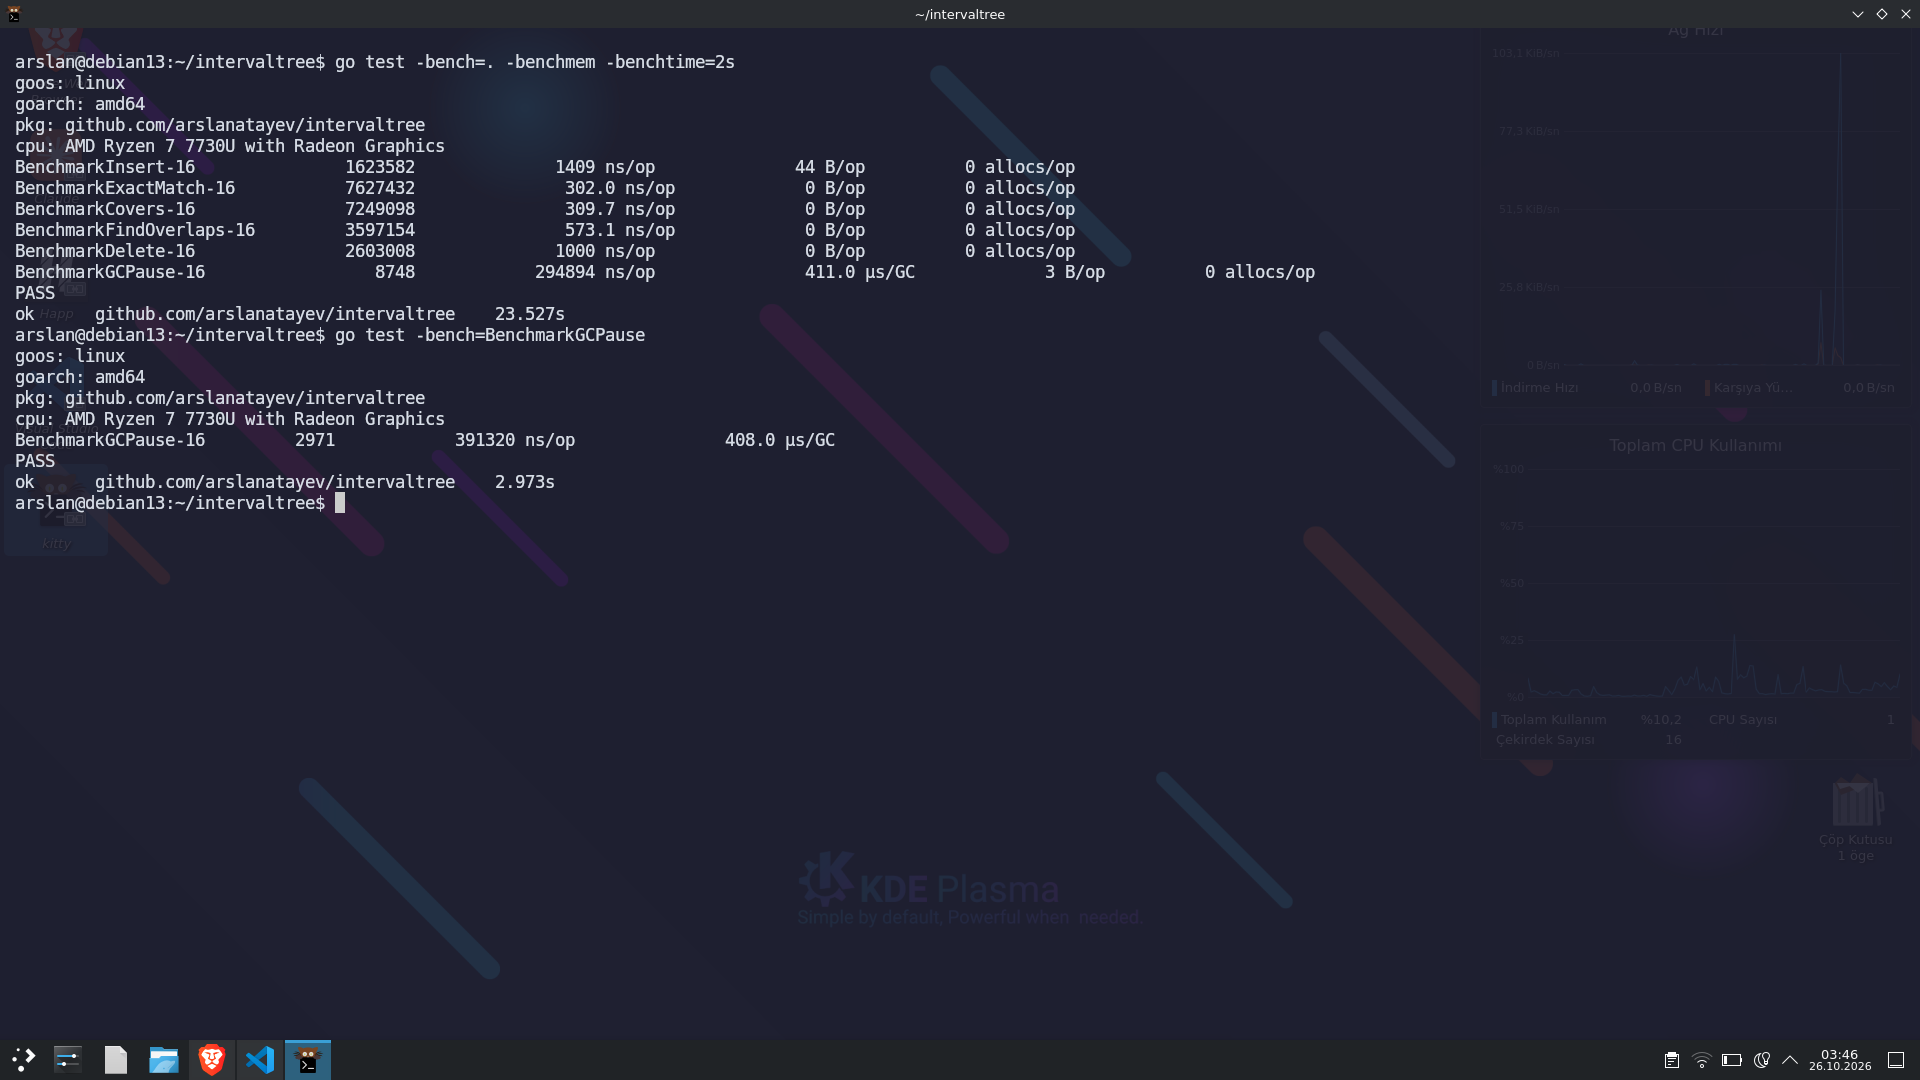
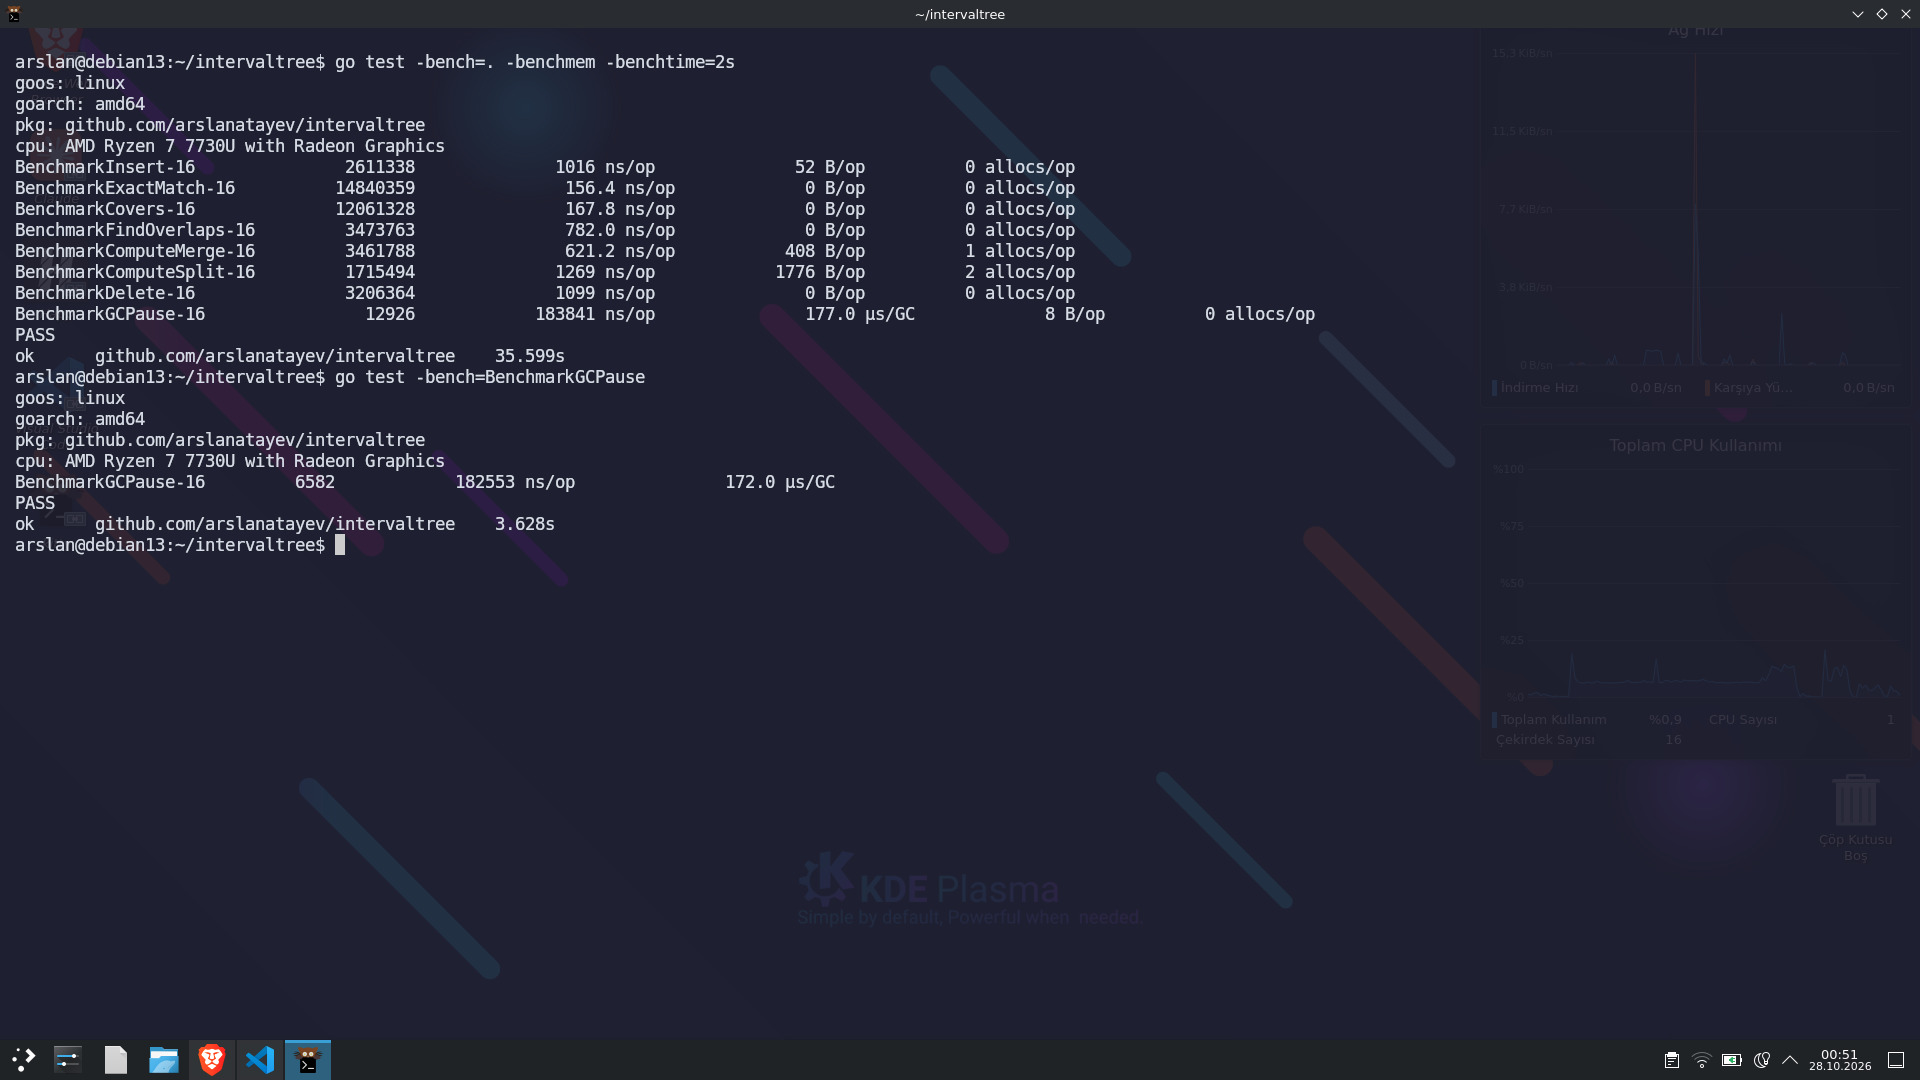
refactor(intervaltree): optimize compute memory usage and update docs
- Add benchmark and fuzz tests for ComputeMerge and ComputeSplit.
- Introduce defaultCapacity to prevent massive heap over-allocation (reducing B/op drastically).
- Use math.MinInt (minInt) for platform-independent 32-bit/64-bit safety.
- Update README with the new benchmark results table including Compute functions.

diff --git a/fuzz_test.go b/fuzz_test.go
@@ -70,6 +70,43 @@ func (m *referenceModel) all() [][2]int {
 	return res
 }
 
+func (m *referenceModel) computeMerge(start, end int) (toDelete [][2]int, merged [2]int, isIntersect bool) {
+	newStart := start
+	newEnd := end
+	pStart := start - 1
+	pEnd := end + 1
+	for _, it := range m.intervals {
+		if it[0] <= pEnd && pStart <= it[1] {
+			toDelete = append(toDelete, it)
+			if it[0] < newStart {
+				newStart = it[0]
+			}
+			if it[1] > newEnd {
+				newEnd = it[1]
+			}
+		}
+	}
+	merged = [2]int{newStart, newEnd}
+	isIntersect = len(toDelete) > 0
+	return toDelete, merged, isIntersect
+}
+
+func (m *referenceModel) computeSplit(start, end int) (toDelete, toAdd [][2]int, isIntersect bool) {
+	for _, it := range m.intervals {
+		if it[0] <= end && start <= it[1] {
+			toDelete = append(toDelete, it)
+			if it[0] < start {
+				toAdd = append(toAdd, [2]int{it[0], start - 1})
+			}
+			if it[1] > end {
+				toAdd = append(toAdd, [2]int{end + 1, it[1]})
+			}
+		}
+	}
+	isIntersect = len(toDelete) > 0
+	return toDelete, toAdd, isIntersect
+}
+
 // FuzzIntervalTree tests memory integrity and algorithmic correctness of the library.
 func FuzzIntervalTree(f *testing.F) {
 	cmp := func(a, b int) int {
@@ -189,6 +226,34 @@ func FuzzIntervalTree(f *testing.F) {
 						t.Fatalf("Slice() sorting/content mismatch at %d: Tree=[%d,%d], Reference=%v", i, overlaps[i].Start, overlaps[i].End, refAll[i])
 					}
 				}
+
+			case 6: // COMPUTE MERGE
+				treeDel, treeMerged, treeIntersect := tree.ComputeMerge(s, e)
+				refDel, refMerged, refIntersect := ref.computeMerge(s, e)
+
+				if treeIntersect != refIntersect {
+					t.Fatalf("ComputeMerge intersect mismatch at (%d, %d): Tree=%v, Ref=%v", s, e, treeIntersect, refIntersect)
+				}
+				if treeMerged.Start != refMerged[0] || treeMerged.End != refMerged[1] {
+					t.Fatalf("ComputeMerge merged range mismatch at (%d, %d): Tree=[%d,%d], Ref=%v", s, e, treeMerged.Start, treeMerged.End, refMerged)
+				}
+				if len(treeDel) != len(refDel) {
+					t.Fatalf("ComputeMerge toDelete count mismatch: Tree=%d, Ref=%d", len(treeDel), len(refDel))
+				}
+
+			case 7: // COMPUTE SPLIT
+				treeDel, treeAdd, treeIntersect := tree.ComputeSplit(s, e)
+				refDel, refAdd, refIntersect := ref.computeSplit(s, e)
+
+				if treeIntersect != refIntersect {
+					t.Fatalf("ComputeSplit intersect mismatch at (%d, %d): Tree=%v, Ref=%v", s, e, treeIntersect, refIntersect)
+				}
+				if len(treeDel) != len(refDel) {
+					t.Fatalf("ComputeSplit toDelete count mismatch: Tree=%d, Ref=%d", len(treeDel), len(refDel))
+				}
+				if len(treeAdd) != len(refAdd) {
+					t.Fatalf("ComputeSplit toAdd count mismatch: Tree=%d, Ref=%d", len(treeAdd), len(refAdd))
+				}
 			}
 
 			// CHECK ALL TREE INVARIANTS AFTER EVERY OPERATION
@@ -212,7 +277,7 @@ func verifyTreeInvariants(t *testing.T, tree *IntervalTree[int, struct{}]) {
 
 	validateNode = func(idx, expectedParent uint32) (uint8, int) {
 		if idx == noIdx {
-			return 0, -1 << 63
+			return 0, minInt
 		}
 
 		if visited[idx] {

diff --git a/interval.go b/interval.go
@@ -3,11 +3,7 @@ package intervaltree
 // ComputeMerge finds overlapping intervals to remove and computes a single merged range for the new addition.
 func (t *IntervalTree[K, V]) ComputeMerge(start, end K) (toDelete []Interval[K, V], merged Interval[K, V], isIntersect bool) {
 	isIntersect = false
-	capacity := (len(t.Nodes) - len(t.FreeIndex)) / 4
-	if capacity < 4 {
-		capacity = 4
-	}
-	toDelete = make([]Interval[K, V], 0, capacity)
+	toDelete = make([]Interval[K, V], 0, defaultCapacity)
 
 	newStart := start
 	newEnd := end
@@ -38,12 +34,8 @@ func (t *IntervalTree[K, V]) ComputeMerge(start, end K) (toDelete []Interval[K, 
 // ComputeSplit detects intervals to delete and calculates any remaining fragment parts to be re-added.
 func (t *IntervalTree[K, V]) ComputeSplit(start, end K) (toDelete, toAdd []Interval[K, V], isIntersect bool) {
 	isIntersect = false
-	capacity := (len(t.Nodes) - len(t.FreeIndex)) / 4
-	if capacity < 4 {
-		capacity = 4
-	}
-	toDelete = make([]Interval[K, V], 0, capacity)
-	toAdd = make([]Interval[K, V], 0, capacity*2)
+	toDelete = make([]Interval[K, V], 0, defaultCapacity)
+	toAdd = make([]Interval[K, V], 0, defaultCapacity*2)
 
 	for interval := range t.FindOverlaps(start, end) {
 		toDelete = append(toDelete, interval)

diff --git a/benchmark_test.go b/benchmark_test.go
@@ -102,6 +102,44 @@ func BenchmarkFindOverlaps(b *testing.B) {
 	}
 }
 
+func BenchmarkComputeMerge(b *testing.B) {
+	const size = 100_000
+	tree := defaultTree(size)
+	rng := rand.New(rand.NewSource(42))
+
+	for i := 0; i < size; i++ {
+		s := rng.Intn(1_000_000)
+		_ = tree.Insert(s, s+rng.Intn(100), struct{}{})
+	}
+
+	b.ResetTimer()
+	b.ReportAllocs()
+
+	for i := 0; i < b.N; i++ {
+		s := rng.Intn(1_000_000)
+		_, _, _ = tree.ComputeMerge(s, s+50)
+	}
+}
+
+func BenchmarkComputeSplit(b *testing.B) {
+	const size = 100_000
+	tree := defaultTree(size)
+	rng := rand.New(rand.NewSource(42))
+
+	for i := 0; i < size; i++ {
+		s := rng.Intn(1_000_000)
+		_ = tree.Insert(s, s+rng.Intn(200), struct{}{})
+	}
+
+	b.ResetTimer()
+	b.ReportAllocs()
+
+	for i := 0; i < b.N; i++ {
+		s := rng.Intn(1_000_000)
+		_, _, _ = tree.ComputeSplit(s, s+100)
+	}
+}
+
 func BenchmarkDelete(b *testing.B) {
 	rng := rand.New(rand.NewSource(42))
 	intervals := make([][2]int, b.N)

diff --git a/search.go b/search.go
@@ -106,11 +106,7 @@ func (t *IntervalTree[K, V]) FindOverlaps(start, end K) iter.Seq[Interval[K, V]]
 // This is convenient when you need a concrete slice instead of an iterator, or when performing 
 // tree mutations (Insert/Delete) based on search results to avoid concurrent iterator modification issues.
 func (t *IntervalTree[K, V]) FindOverlapsSlice(start, end K) []Interval[K, V] {
-	capacity := (len(t.Nodes) - len(t.FreeIndex)) / 4
-	if capacity < 4 {
-		capacity = 4
-	}
-	intervals := make([]Interval[K, V], 0, capacity)
+	intervals := make([]Interval[K, V], 0, 8)
 
 	for interval := range t.FindOverlaps(start, end) {
 		intervals = append(intervals, interval)

diff --git a/tree.go b/tree.go
@@ -7,6 +7,12 @@ import "math"
 // noIdx represents a sentinel index used to denote a null or non-existent node reference.
 const noIdx uint32 = math.MaxUint32
 
+// defaultCapacity defines the initial capacity allocated for slices or buffers to avoid frequent allocations.
+const defaultCapacity = 16
+
+// minInt represents the platform-dependent minimum integer value, used for boundary initialization in tree validations.
+const minInt = math.MinInt
+
 // Node represents a single interval element stored within a contiguous slice backing the tree.
 type Node[K any, V any] struct {
 	Interval[K, V]

diff --git a/README.md b/README.md
@@ -26,12 +26,14 @@ Designed with **Data-Oriented Design (DOD)** principles, `intervaltree` eliminat
 Tested on **AMD Ryzen 7 7730U** (Linux amd64, Go 1.24):
 
 ```text
-BenchmarkInsert-16          1623582    1409 ns/op     44 B/op    0 allocs/op
-BenchmarkExactMatch-16      7627432     302.0 ns/op    0 B/op    0 allocs/op
-BenchmarkCovers-16          7249098     309.7 ns/op    0 B/op    0 allocs/op
-BenchmarkFindOverlaps-16    3597154     573.1 ns/op    0 B/op    0 allocs/op
-BenchmarkDelete-16          2603008    1000 ns/op      0 B/op    0 allocs/op
-BenchmarkGCPause-16            8748  294894 ns/op      3 B/op    0 allocs/op (411 µs/GC)
+BenchmarkInsert-16         2611338    1016 ns/op        52 B/op    0 allocs/op
+BenchmarkExactMatch-16     14840359   156.4 ns/op        0 B/op    0 allocs/op
+BenchmarkCovers-16         12061328   167.8 ns/op        0 B/op    0 allocs/op
+BenchmarkFindOverlaps-16   3473763    782.0 ns/op        0 B/op    0 allocs/op
+BenchmarkComputeMerge-16   3461788    621.2 ns/op      408 B/op    1 allocs/op
+BenchmarkComputeSplit-16   1715494    1269 ns/op      1776 B/op    2 allocs/op
+BenchmarkDelete-16         3206364    1099 ns/op         0 B/op    0 allocs/op
+BenchmarkGCPause-16        12926      183841 ns/op       8 B/op    0 allocs/op (177.0 µs/GC)
 ```
 ![Image](assets/benchmark_output.png)
 
